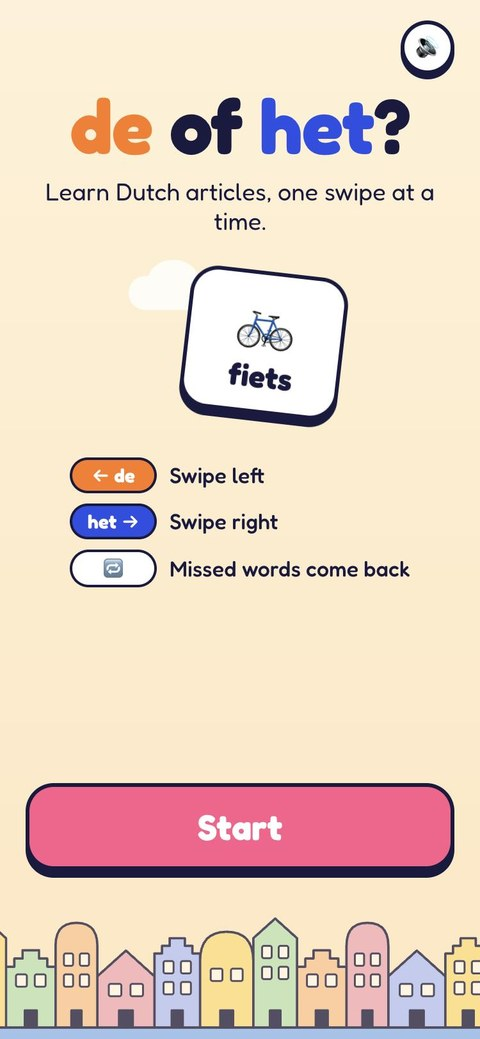
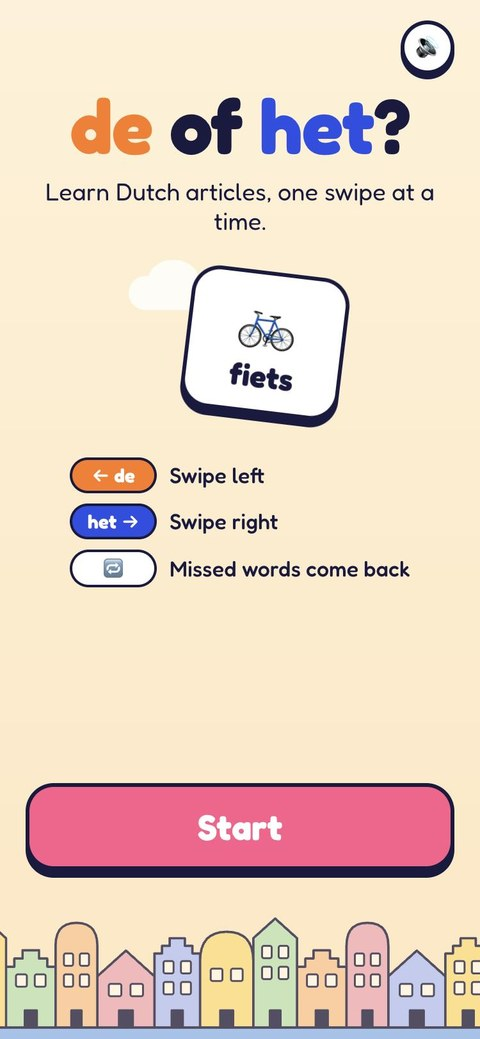
Show the swipe interaction in the README demo
Rebuild the demo GIF and screenshots with the card tilting and the DE and
HET stamps while dragging, and make the GIF link to the live game.

diff --git a/README.md b/README.md
@@ -10,7 +10,9 @@
 </p>
 
 <p align="center">
-  <img src="docs/demo.gif" alt="Gameplay: the start screen, a correct answer with confetti, a wrong answer and the result screen" width="300" />
+  <a href="https://de-of-het-nu.vercel.app">
+    <img src="docs/demo.gif" alt="Gameplay: swiping a card left and right, a correct answer with confetti, a wrong answer and the result screen" width="300" />
+  </a>
 </p>
 
 ## Why
@@ -19,7 +21,7 @@ Every Dutch noun is either *de* or *het*, and there is no reliable way to guess 
 
 ## Features
 
-- **Swipe, tap or use the arrow keys.** One decision per card, no typing.
+- **Swipe, tap or use the arrow keys.** One decision per card, no typing. While you drag, the card tilts and a stamp shows which article you are about to pick.
 - **Spaced repetition.** Words move through five boxes: a correct answer promotes a word, a wrong one sends it back to the start. The gap before a word returns grows from 1 to 16 rounds.
 - **1500 words** from the most frequent Dutch nouns, introduced in order of frequency. Each has an English meaning and, for about 280 of them, an emoji.
 - **Rule hints.** After a wrong answer, words with a reliable ending (-je, -heid, -teit, -tie, -ing and a few more) show the rule behind them.
@@ -31,13 +33,21 @@ Every Dutch noun is either *de* or *het*, and there is no reliable way to guess 
 
 <table>
   <tr>
-    <td align="center"><img src="docs/screenshots/start.jpg" alt="Start screen" width="200" /></td>
-    <td align="center"><img src="docs/screenshots/game.jpg" alt="Correct answer with confetti" width="200" /></td>
-    <td align="center"><img src="docs/screenshots/wrong.jpg" alt="Wrong answer feedback" width="200" /></td>
-    <td align="center"><img src="docs/screenshots/result.jpg" alt="Result screen" width="200" /></td>
+    <td align="center"><img src="docs/screenshots/start.jpg" alt="Start screen" width="220" /></td>
+    <td align="center"><img src="docs/screenshots/swipe-left.jpg" alt="Swiping a card left: the card tilts and a DE stamp appears" width="220" /></td>
+    <td align="center"><img src="docs/screenshots/swipe-right.jpg" alt="Swiping a card right: the card tilts and a HET stamp appears" width="220" /></td>
   </tr>
   <tr>
     <td align="center">Start</td>
+    <td align="center">Swipe left for <strong>de</strong></td>
+    <td align="center">Swipe right for <strong>het</strong></td>
+  </tr>
+  <tr>
+    <td align="center"><img src="docs/screenshots/right-answer.jpg" alt="Correct answer with confetti" width="220" /></td>
+    <td align="center"><img src="docs/screenshots/wrong-answer.jpg" alt="Wrong answer feedback" width="220" /></td>
+    <td align="center"><img src="docs/screenshots/result.jpg" alt="Result screen" width="220" /></td>
+  </tr>
+  <tr>
     <td align="center">Right answer</td>
     <td align="center">Wrong answer</td>
     <td align="center">Round result</td>
